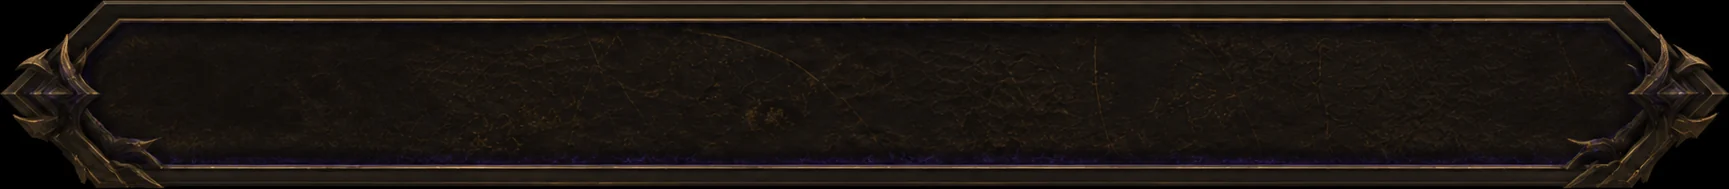
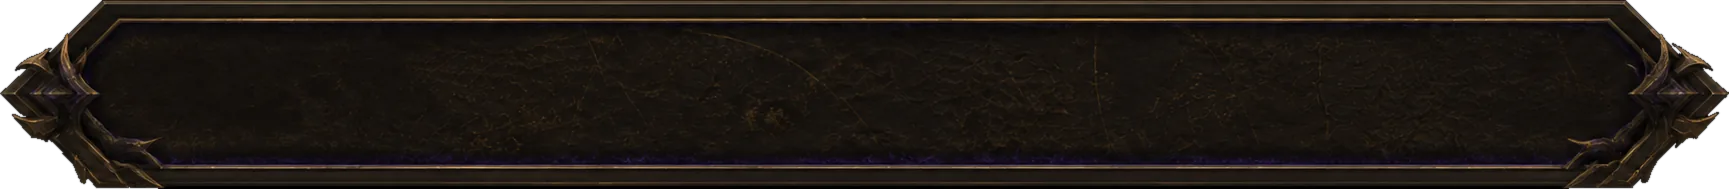
skillstone: lighter glyphs, a clean plaque, four crests
The chart's glyphs read bold against the hairlines: stroke 1.9 -> 1.45,
signs and bodies scaled down (14px and 10px at a 558px plate). The
menu plaque's black field is knocked out to alpha, so only the plate
shows. The hero card keeps the four earned attributes; the practised
groups live on the Proficiency tab.

Changed region(s): [[0.9057, 0.0, 1.0, 1.0], [0.0, 0.5291, 0.0937, 1.0], [0.0, 0.0, 0.0625, 0.4762]]

diff --git a/skillstone/index.html b/skillstone/index.html
@@ -8766,14 +8766,16 @@ function astroSymbol(name, x, y) {
     return tx;
   }
   const d = ASTRO_GLYPH[name]; if (!d) return null;
-  const s = (ZODIAC.indexOf(name) > -1 ? 1 : 1.1) * astroGlyphScale;
+  /* signs on the ring a little larger than the bodies inside it; both lighter than the
+     first cut, which read bold against the hairlines */
+  const s = (ZODIAC.indexOf(name) > -1 ? 0.84 : 0.76) * astroGlyphScale;
   const g = document.createElementNS(NS, "g");
   g.setAttribute("class", "ag " + (ZODIAC.indexOf(name) > -1 ? "ag-sign" : "ag-body"));
   g.setAttribute("transform", "translate(" + (x - 12 * s) + "," + (y - 12 * s) + ") scale(" + s + ")");
   const p = document.createElementNS(NS, "path");
   p.setAttribute("d", d); p.setAttribute("fill", "none");
   p.setAttribute("stroke", ZODIAC.indexOf(name) > -1 ? astroInk().gold : astroInk().gold2);
-  p.setAttribute("stroke-width", "1.9"); p.setAttribute("stroke-linecap", "round"); p.setAttribute("stroke-linejoin", "round");
+  p.setAttribute("stroke-width", "1.45"); p.setAttribute("stroke-linecap", "round"); p.setAttribute("stroke-linejoin", "round");
   g.appendChild(p);
   return g;
 }
@@ -9159,7 +9161,7 @@ function renderAstro() {
   /* the plate itself: AstroChart draws from the same object the twin just printed */
   try {
     /* signs ≈ 20px at a 628px plate, never under 14px at the smallest */
-    astroGlyphScale = Math.max(0.95, Math.min(1.7, size / 470));
+    astroGlyphScale = Math.max(0.95, Math.min(1.5, size / 470));
     const data = { planets: {} };
     c.bodies.forEach(x => { data.planets[x.name] = [x.lon, x.speed]; });
     /* the library validates for exactly twelve cusps; unknown time → the twelve sign
@@ -10143,18 +10145,10 @@ function renderCrests() {
       <span class="cn${st.level === null ? " none" : ""}" aria-hidden="true">${st.level === null ? "–" : st.level}</span>
     </div>`;
   }).join("");
-  const worn = PROF_GROUPS.map(g => {
-    const st = profGroupStats(g.k);
-    const lbl = st.level === null
-      ? `${g.name} — nothing to practise yet`
-      : `${g.name} — mean proficiency ${st.level} of ${PROF_MAX} across ${st.skills.length} skills, ${fmtHours(st.hours)} logged`;
-    return `<div class="crest crest-prof" role="img" aria-label="${esc(lbl)}">
-      ${sig(g.k, 15)}
-      <span class="ab" aria-hidden="true">${g.ab}</span>
-      <span class="cn${st.level ? "" : " none"}" aria-hidden="true">${st.level === null ? "–" : st.level}</span>
-    </div>`;
-  }).join("");
-  $("#crests").innerHTML = earned + '<span class="crest-rule" aria-hidden="true"></span>' + worn;
+  /* the four earned attributes only. The practised groups (Arts, Crafts, Languages, Sports)
+     used to sit right of a rule here; they read as a second scoreboard on the card, and
+     their home is the Proficiency tab. Owner's call, 1 Sep 2026. */
+  $("#crests").innerHTML = earned;
 }
 
 function tileAria(s) {
